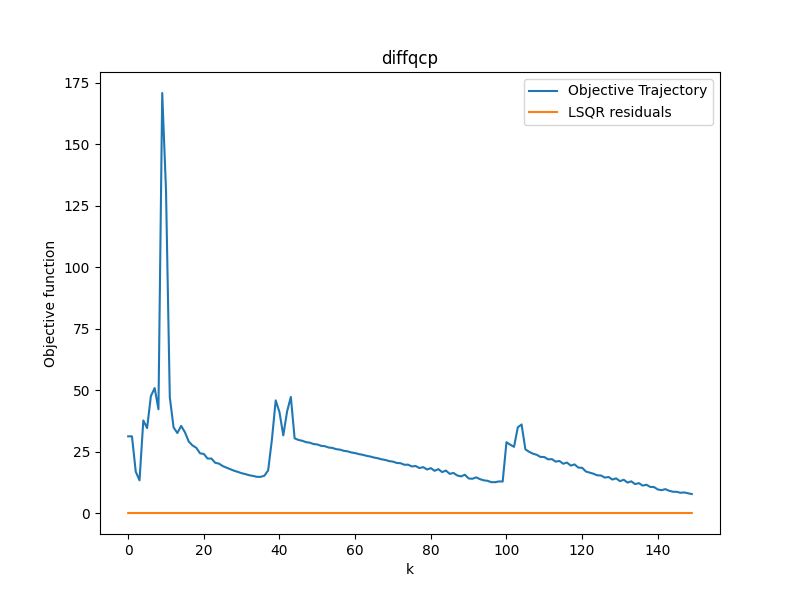
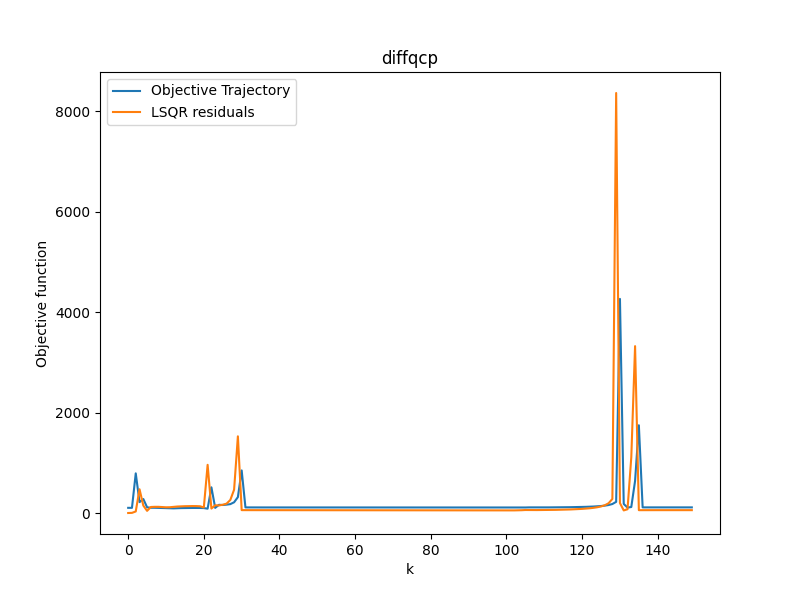
fix experiments

diff --git a/experiments/basic_experiments.py b/experiments/basic_experiments.py
@@ -13,23 +13,23 @@ if __name__ == "__main__":
     m = 20
     n = 10
 
-    generator = partial(generate_LS_problem, m, n, return_problem_only=True)
+    # generator = partial(generate_LS_problem, m, n, return_problem_only=True)
     
-    experiment1 = GradDescTestHelper(generator, dtype=torch.float64)
-    print("=== starting LS diffcp experiment ===")
-    experiment1_diffcp_result = experiment1.cp_grad_desc()
-    print("=== starting LS diffqcp experiment ===")
-    experiment1_diffqcp_result = experiment1.qcp_grad_desc()
+    # experiment1 = GradDescTestHelper(generator, dtype=torch.float64)
+    # print("=== starting LS diffcp experiment ===")
+    # experiment1_diffcp_result = experiment1.cp_grad_desc()
+    # print("=== starting LS diffqcp experiment ===")
+    # experiment1_diffqcp_result = experiment1.qcp_grad_desc()
     
-    save_path = os.path.join(results_dir, "diffcp_LS.png")
-    experiment1_diffcp_result.plot_obj_traj(save_path)
+    # save_path = os.path.join(results_dir, "diffcp_LS.png")
+    # experiment1_diffcp_result.plot_obj_traj(save_path)
 
-    save_path = os.path.join(results_dir, "diffqcp_LS.png")
-    experiment1_diffqcp_result.plot_obj_traj(save_path)
+    # save_path = os.path.join(results_dir, "diffqcp_LS.png")
+    # experiment1_diffqcp_result.plot_obj_traj(save_path)
 
-    generator2 = partial(generate_least_squares_eq, m, n, return_problem_only=True)
+    generator2 = partial(generate_least_squares_eq, m, n, return_all=False, return_problem_only=True)
 
-    experiment2 = GradDescTestHelper(generator, dtype=torch.float64)
+    experiment2 = GradDescTestHelper(generator2, dtype=torch.float64)
     print("=== starting LS equality constrained diffcp experiment ===")
     experiment2_diffcp_result = experiment2.cp_grad_desc()
     print("=== starting LS equality constrained diffqcp experiment ===")
@@ -40,3 +40,17 @@ if __name__ == "__main__":
 
     save_path = os.path.join(results_dir, "diffqcp_LS_eq.png")
     experiment2_diffqcp_result.plot_obj_traj(save_path)
+
+    # generator2 = partial(generate_least_squares_eq, m, n, return_problem_only=True)
+
+    # experiment2 = GradDescTestHelper(generator, dtype=torch.float64)
+    # print("=== starting LS equality constrained diffcp experiment ===")
+    # experiment2_diffcp_result = experiment2.cp_grad_desc()
+    # print("=== starting LS equality constrained diffqcp experiment ===")
+    # experiment2_diffqcp_result = experiment2.qcp_grad_desc()
+    
+    # save_path = os.path.join(results_dir, "diffcp_LS_eq.png")
+    # experiment2_diffcp_result.plot_obj_traj(save_path)
+
+    # save_path = os.path.join(results_dir, "diffqcp_LS_eq.png")
+    # experiment2_diffqcp_result.plot_obj_traj(save_path)

diff --git a/experiments/cvx_problem_generator.py b/experiments/cvx_problem_generator.py
@@ -88,17 +88,17 @@ def generate_sdp(n, p, return_all=True, return_problem_only: bool=False):
                                      random_array=np.random.randn, P_psd=True)
     C = data[0].todense()
     
-    data = generate_problem_data_new(n=n, m=n, sparse_random_array=sparse.random_array,
-                                     random_array=np.random.randn, P_psd=True)
-    D = data[0].todense()
+    # data = generate_problem_data_new(n=n, m=n, sparse_random_array=sparse.random_array,
+    #                                  random_array=np.random.randn, P_psd=True)
+    # D = data[0].todense()
 
     As = [randn_symm(n, np.random.randn) for _ in range(p)]
     Bs = np.random.randn(p)
 
     X = cvx.Variable((n, n), PSD=True)
     y = cvx.Variable(n)
-    objective = cvx.trace(C @ X) + cvx.quad_form(y, D, assume_PSD=True)
-    # objective = cvx.trace(C @ X)
+    # objective = cvx.trace(C @ X) + cvx.quad_form(y, D, assume_PSD=True)
+    objective = cvx.trace(C @ X)
     constraints = [cvx.trace(As[i] @ X) == Bs[i] for i in range(p)]
     prob = cvx.Problem(cvx.Minimize(objective), constraints)
 
